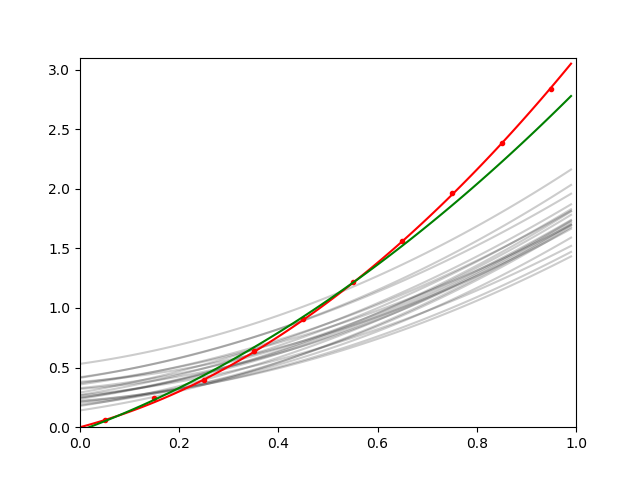
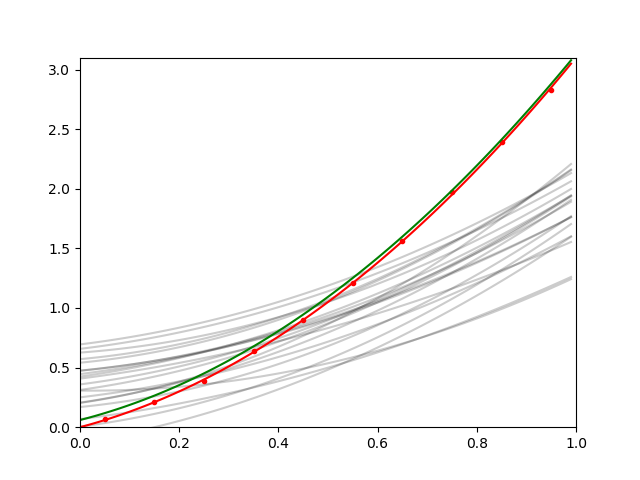
added posterior sampling

Changed region(s): [[0.125, 0.1562, 0.9062, 0.9062], [0.875, 0.125, 0.9062, 0.1562]]

diff --git a/4DEnVar.c b/4DEnVar.c
@@ -33,11 +33,11 @@ void check_dims( gsl_matrix * gmat1, gsl_matrix * gmat2 )
 /*Check the dimensions of two GSL matrices.
 Exit with failure if they are not equal.*/
 {
-	if( (gmat1->size1 != gmat2->size1) || (gmat1->size2 != gmat2->size2) ){
-		fprintf( stderr, "%s: matrix dimensions do not match\n", __FILE__ );
-		exit( EXIT_FAILURE );
-	}
-	return ;
+    if( (gmat1->size1 != gmat2->size1) || (gmat1->size2 != gmat2->size2) ){
+        fprintf( stderr, "%s: matrix dimensions do not match\n", __FILE__ );
+        exit( EXIT_FAILURE );
+    }
+    return ;
 }
 
 
@@ -47,20 +47,20 @@ the file opening and exits with failure if open fails.
 Returns the data as a GSL matrix.
 */
 {
-	FILE * fp ;
-	double *ptr, tmp ;
-	int x, y ;
-	long xsize ; 
-	long ysize ;
-	
-	gsl_matrix *gmat ;
-	
-	if( ( fp = fopen( filename, "r" ) ) == NULL ){
-		fprintf( stderr, "%s: unable to open file %s\n", __FILE__, filename );
-		exit( EXIT_FAILURE );
-	}
-	
-	ptr=fread_ascii_ffMatrix( &xsize, &ysize, fp ) ;
+    FILE * fp ;
+    double *ptr, tmp ;
+    int x, y ;
+    long xsize ; 
+    long ysize ;
+    
+    gsl_matrix *gmat ;
+    
+    if( ( fp = fopen( filename, "r" ) ) == NULL ){
+        fprintf( stderr, "%s: unable to open file %s\n", __FILE__, filename );
+        exit( EXIT_FAILURE );
+    }
+    
+    ptr=fread_ascii_ffMatrix( &xsize, &ysize, fp ) ;
     gmat=(gsl_matrix *)gsl_matrix_alloc ( (size_t)ysize, (size_t)xsize);
 
     for( y=0; y<ysize; y++ ){
@@ -70,9 +70,9 @@ Returns the data as a GSL matrix.
         }
     }
 
-	fclose(fp);	
-	free(ptr);
-	return(gmat);
+    fclose(fp);    
+    free(ptr);
+    return(gmat);
 }
 
 gsl_vector *load_ffMatrix_to_gsl_vector( char *filename )
@@ -81,25 +81,25 @@ the file opening and exits with failure if open fails.
 Returns the data as a GSL VECTOR.
 */
 {
-	FILE * fp ;
-	double *ptr, tmp ;
-	int y ;
-	long xsize ; 
-	long ysize ;
-	
-	gsl_vector *gvec ;
-	
-	if( ( fp = fopen( filename, "r" ) ) == NULL ){
-		fprintf( stderr, "%s: unable to open file %s\n", __FILE__, filename );
-		exit( EXIT_FAILURE );
-	}
-	
-	ptr=fread_ascii_ffMatrix( &xsize, &ysize, fp ) ;
+    FILE * fp ;
+    double *ptr, tmp ;
+    int y ;
+    long xsize ; 
+    long ysize ;
+    
+    gsl_vector *gvec ;
+    
+    if( ( fp = fopen( filename, "r" ) ) == NULL ){
+        fprintf( stderr, "%s: unable to open file %s\n", __FILE__, filename );
+        exit( EXIT_FAILURE );
+    }
+    
+    ptr=fread_ascii_ffMatrix( &xsize, &ysize, fp ) ;
 
-	if( xsize>1 ){
-		fprintf( stderr, "%s: file %s should have a single column \n", __FILE__, filename );
-		exit( EXIT_FAILURE );
-	}
+    if( xsize>1 ){
+        fprintf( stderr, "%s: file %s should have a single column \n", __FILE__, filename );
+        exit( EXIT_FAILURE );
+    }
 
     gvec=(gsl_vector *)gsl_vector_alloc ( (size_t)ysize );
 
@@ -108,9 +108,9 @@ Returns the data as a GSL VECTOR.
         gsl_vector_set (gvec, y, tmp);
     }
 
-	fclose(fp);	
-	free(ptr);
-	return(gvec);
+    fclose(fp);    
+    free(ptr);
+    return(gvec);
 }
 
 
@@ -145,32 +145,37 @@ Calculate HXb
 
 */
     
-	gsl_matrix *xb ;
-	gsl_matrix *hx ;
+    gsl_matrix *xb ;
+    gsl_matrix *Xa ;
+    gsl_matrix *hx ;
     gsl_matrix *R ;
     gsl_vector *y ;
-	gsl_vector *xa ;
-	gsl_vector *hx_bar ;
-	
-	xb      =load_ffMatrix_to_gsl_matrix(argv[1]);
-	hx      =load_ffMatrix_to_gsl_matrix(argv[2]);
-	y       =load_ffMatrix_to_gsl_vector(argv[3]);
-	R       =load_ffMatrix_to_gsl_matrix(argv[4]);
-	hx_bar  =load_ffMatrix_to_gsl_vector(argv[5]);
+    gsl_vector *xa ;
+    gsl_vector *hx_bar ;
+    
+    xb      =load_ffMatrix_to_gsl_matrix(argv[1]);
+    hx      =load_ffMatrix_to_gsl_matrix(argv[2]);
+    y       =load_ffMatrix_to_gsl_vector(argv[3]);
+    R       =load_ffMatrix_to_gsl_matrix(argv[4]);
+    hx_bar  =load_ffMatrix_to_gsl_vector(argv[5]);
 
     xa = fourDEnVar( xb, hx, y, R, hx_bar );
+    Xa = fourDEnVar_sample_posterior( xb, hx, R, hx_bar, xa );
 
-    print_gsl_vector(xa);    
+    print_gsl_vector(xa);
+    printf("==================\n");
+    print_gsl_matrix(Xa);    
 
     gsl_matrix_free (xb);
     gsl_vector_free (xa);
+    gsl_matrix_free (Xa);
     gsl_matrix_free (hx);
     gsl_matrix_free (R);
     gsl_vector_free (y);
     gsl_vector_free (hx_bar);
 
-	return( EXIT_SUCCESS );
-	
+    return( EXIT_SUCCESS );
+    
 }
 
 

diff --git a/4DEnVar_engine.c b/4DEnVar_engine.c
@@ -105,6 +105,93 @@ An implementation of 4DEnVar
 }
 
 
+gsl_matrix * fourDEnVar_sample_posterior( gsl_matrix * xb, gsl_matrix * hx, gsl_matrix * R, gsl_vector * hx_bar, gsl_vector *xa )
+{
+
+    gsl_vector *xb_bar ;
+    gsl_matrix *X_dash_b ;
+    gsl_matrix *HX_dash_b ;
+    int nens=xb->size1, i=0, j=0;
+    float scale,tmp;
+
+    int signum;
+    gsl_permutation *p=gsl_permutation_alloc(R->size1);
+    gsl_matrix *R_inv = gsl_matrix_calloc(R->size1, R->size2);
+    gsl_matrix *work1 = gsl_matrix_alloc(hx->size1, hx->size2);
+    gsl_matrix *work2 = gsl_matrix_calloc(hx->size2, hx->size2);
+
+    gsl_matrix *X_dash_a = gsl_matrix_alloc(xb->size1, xb->size2);
+    gsl_matrix *X_a = gsl_matrix_alloc(xb->size1, xb->size2);
+
+
+    gsl_matrix_set_identity(work2);
+
+    /*invert the R matrix*/
+    gsl_linalg_LU_decomp(R, p, &signum);
+    gsl_linalg_LU_invert(R, p, R_inv);
+
+    /*calculate the mean of each parameter 
+    in the ensemble*/
+    xb_bar = mean_vector_from_matrix(xb);
+    
+    /*calculate the perturbation matrix
+    eqn 21 in Pinnington 2020*/
+    scale=1./sqrt(nens-1);
+    X_dash_b = perturbation_matrix(xb,xb_bar,scale);
+
+    /*calculate HXb matrix
+    eqn 26 in Pinnington 2020*/
+    HX_dash_b = perturbation_matrix(hx,hx_bar,scale);
+
+
+    /*Wa=sqrt(I+Y'b^T*R^-1*Y'b)
+    See eqn A16 in Pinnington et al. 2021
+    Note that Y'd == HX'b due to a change 
+    in nomenclature between the two papers
+    */
+
+    /*1. work1=R^-1*HX'b*/
+    gsl_blas_dgemm(CblasNoTrans, CblasNoTrans, 1.0, R_inv, HX_dash_b, 0.0, work1);
+
+    /*2. (HX'b)^T*work1 + I
+    Note - I = work2
+    */
+     
+    gsl_blas_dgemm(CblasTrans, CblasNoTrans, 1.0, HX_dash_b, work1, 1.0, work2);
+
+    /* 3. work2 now contains I+Y'b^T*R^-1*Y'b
+    so need to take square root to give Wa. 
+    Need to zero the upper left triangle as GSL
+    leaves the original matrix in there.
+    */
+
+    //print_gsl_matrix(work2);    
+
+    gsl_linalg_cholesky_decomp1(work2);  
+    for(i=0;i<work2->size1;i++)
+        for(j=i+1;j<work2->size2;j++)
+            gsl_matrix_set(work2, i, j, 0.0);
+            
+    //print_gsl_matrix(work2);    
+    
+    /*4. X'a = X'b * Wa
+    Note - work2 contains Wa.
+    */     
+
+    gsl_blas_dgemm(CblasNoTrans, CblasTrans, 1.0, X_dash_b, work2, 0.0, X_dash_a);
+    
+    /*Now compute Xa=X'a+xa
+    */
+    for( i=0; i<X_dash_a->size2; i++ ){
+        for( j=0; j<X_dash_a->size1; j++ ){
+            tmp=gsl_matrix_get(X_dash_a,j,i)+gsl_vector_get(xa,j);
+            gsl_matrix_set (X_a, j, i, tmp);
+        }
+    }
+    
+    return(X_a);
+}
+
 double fourDEnVar_cost_f(const gsl_vector *w, void *p)
 {
 

diff --git a/4DEnVar_engine.h b/4DEnVar_engine.h
@@ -9,6 +9,8 @@
 gsl_vector * fourDEnVar( gsl_matrix *, gsl_matrix *, gsl_vector *, gsl_matrix *, gsl_vector * );
 gsl_vector * mean_vector_from_matrix( gsl_matrix * );
 gsl_matrix * perturbation_matrix( gsl_matrix *, gsl_vector *, float );
+gsl_matrix * fourDEnVar_sample_posterior( gsl_matrix *, gsl_matrix *, gsl_matrix *, gsl_vector *, gsl_vector * );
+
 
 void print_gsl_matrix( gsl_matrix * );
 void print_gsl_vector( gsl_vector * );

diff --git a/linear_tests/genLinear.py b/linear_tests/genLinear.py
@@ -115,7 +115,7 @@ if __name__=="__main__":
     import subprocess
 
     #coefs_truth, coefs_prior, uncert_prior, nens, nobs, obs_uncert
-    l=linearModelEnsemble([2.,1.1,0.],[1.,0.5,0.3],[0.1,0.1,0.1],20,10,0.01)
+    l=linearModelEnsemble([2.,1.1,0.],[1.,0.5,0.3],[0.2,0.2,0.2],20,10,0.01)
     #l.plot("0setup.png")
     l.write_files()
     
